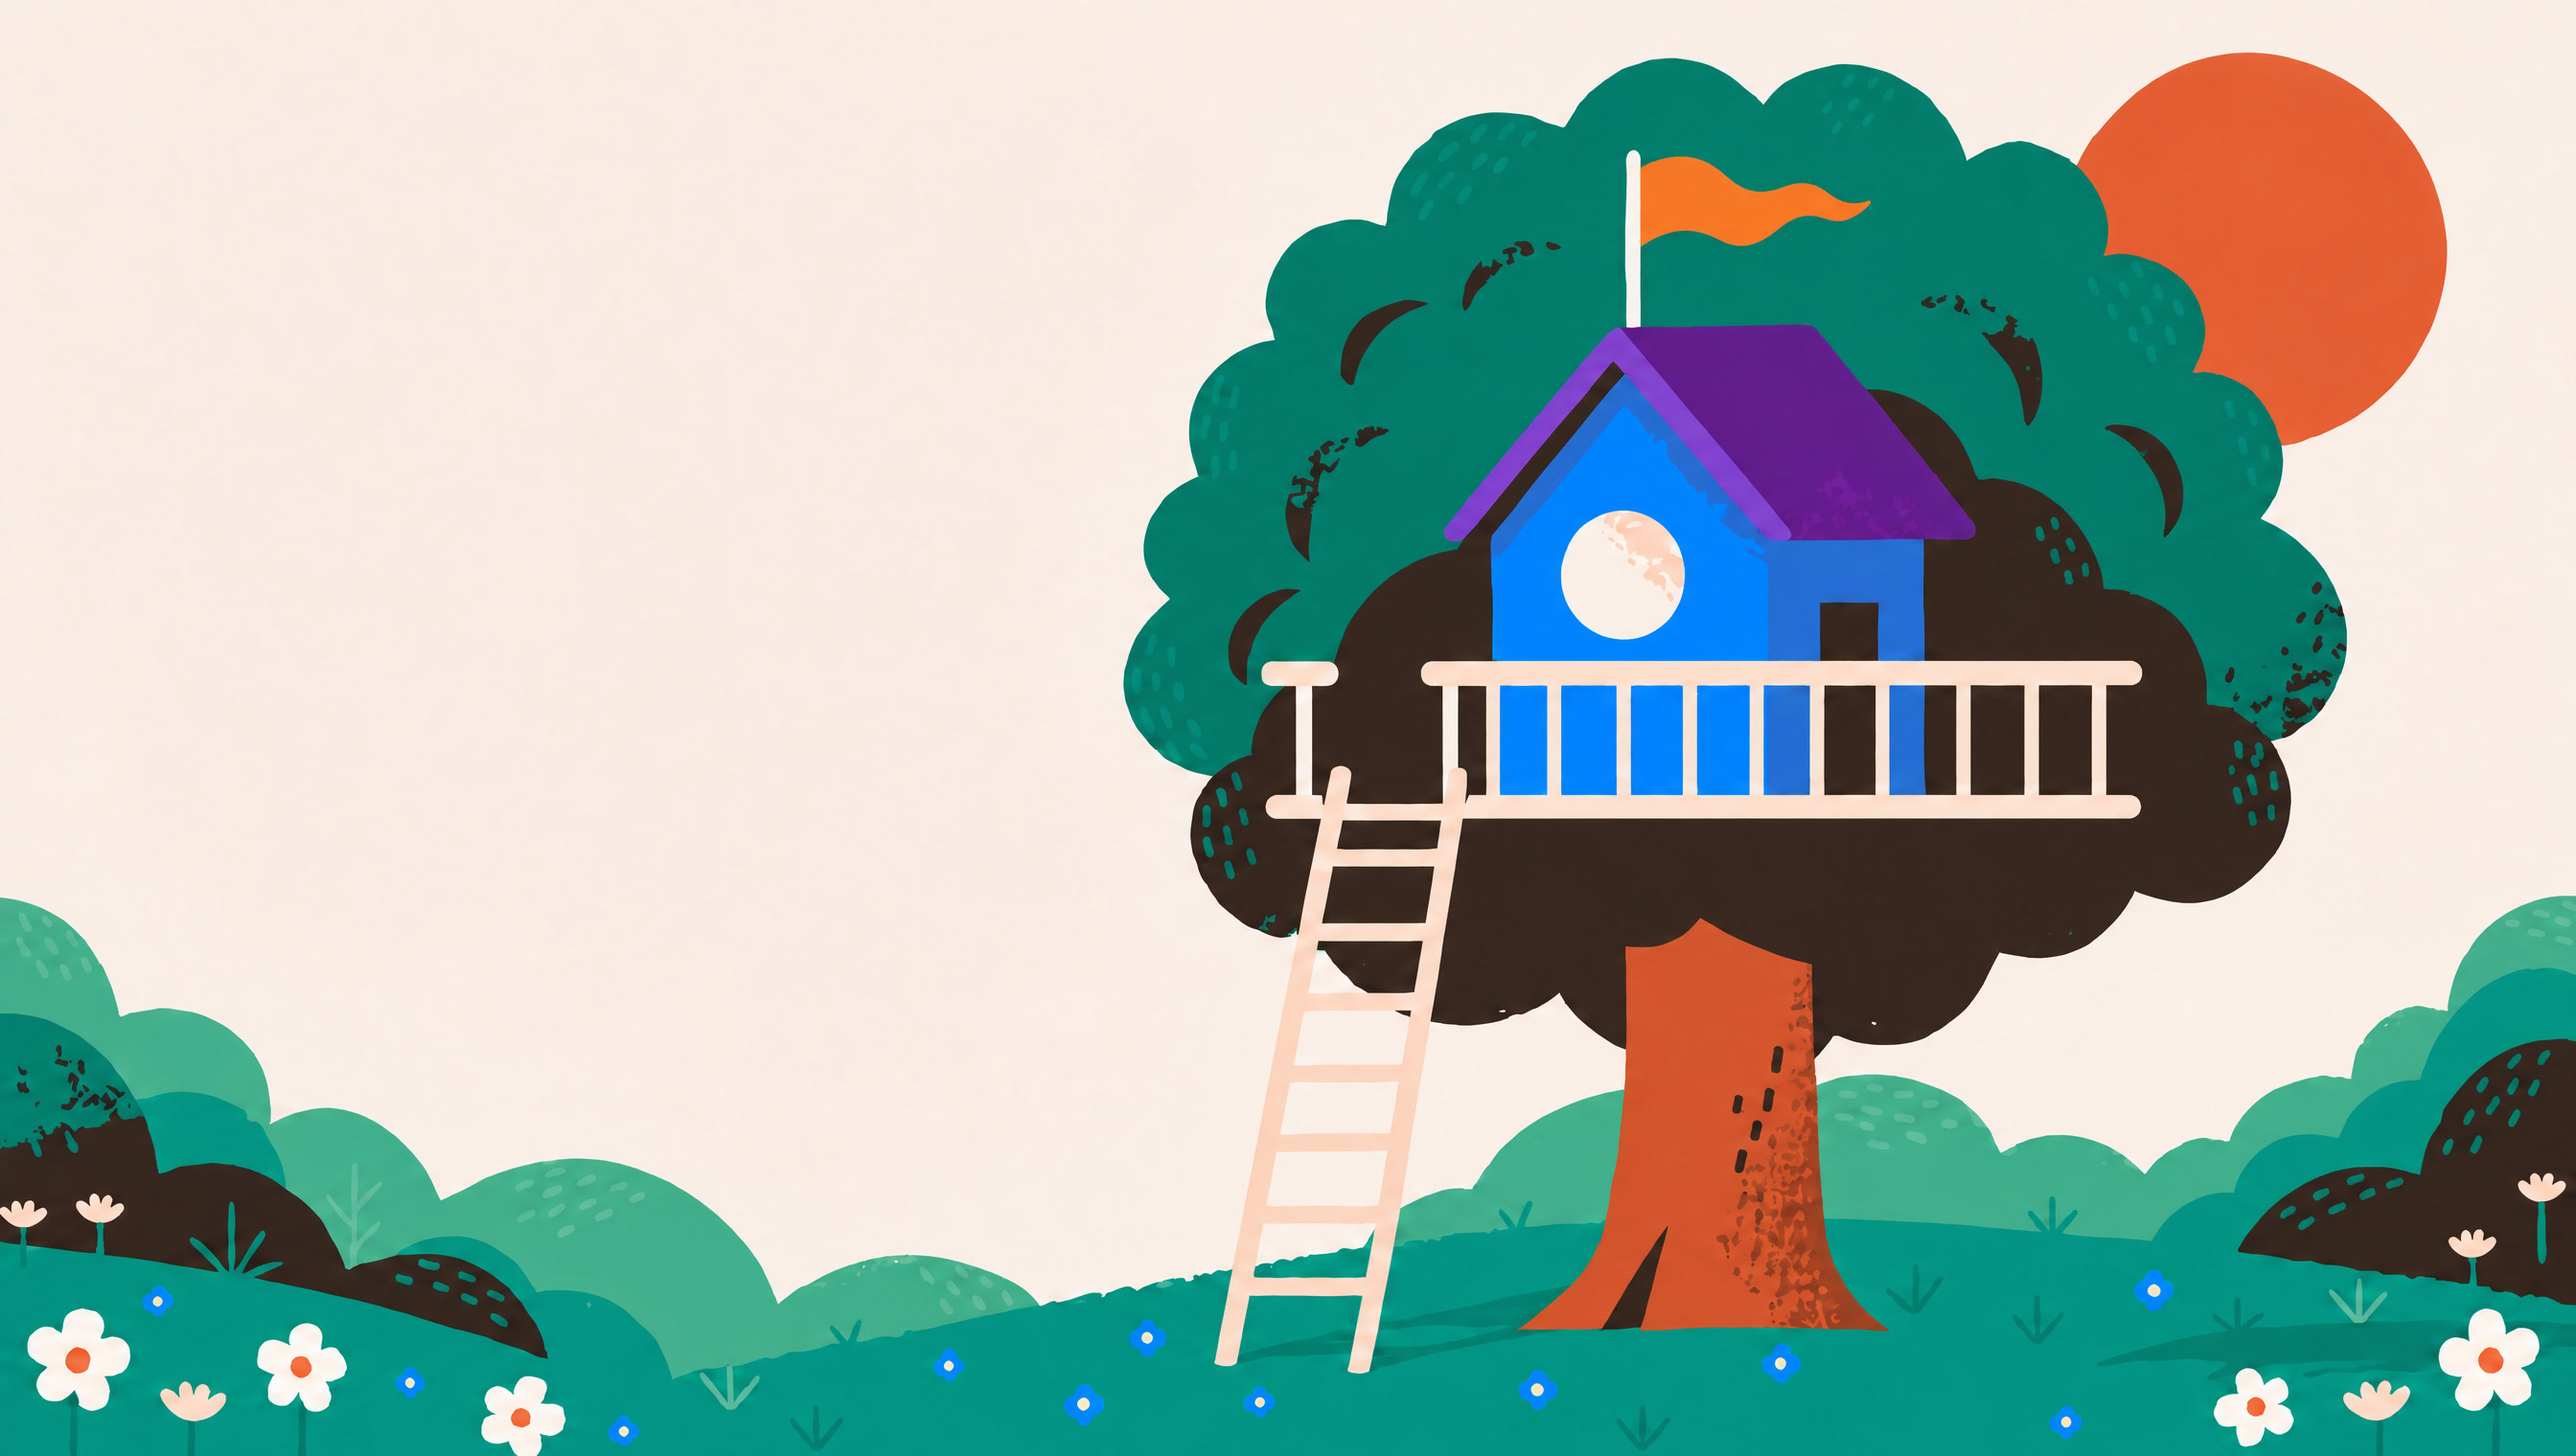
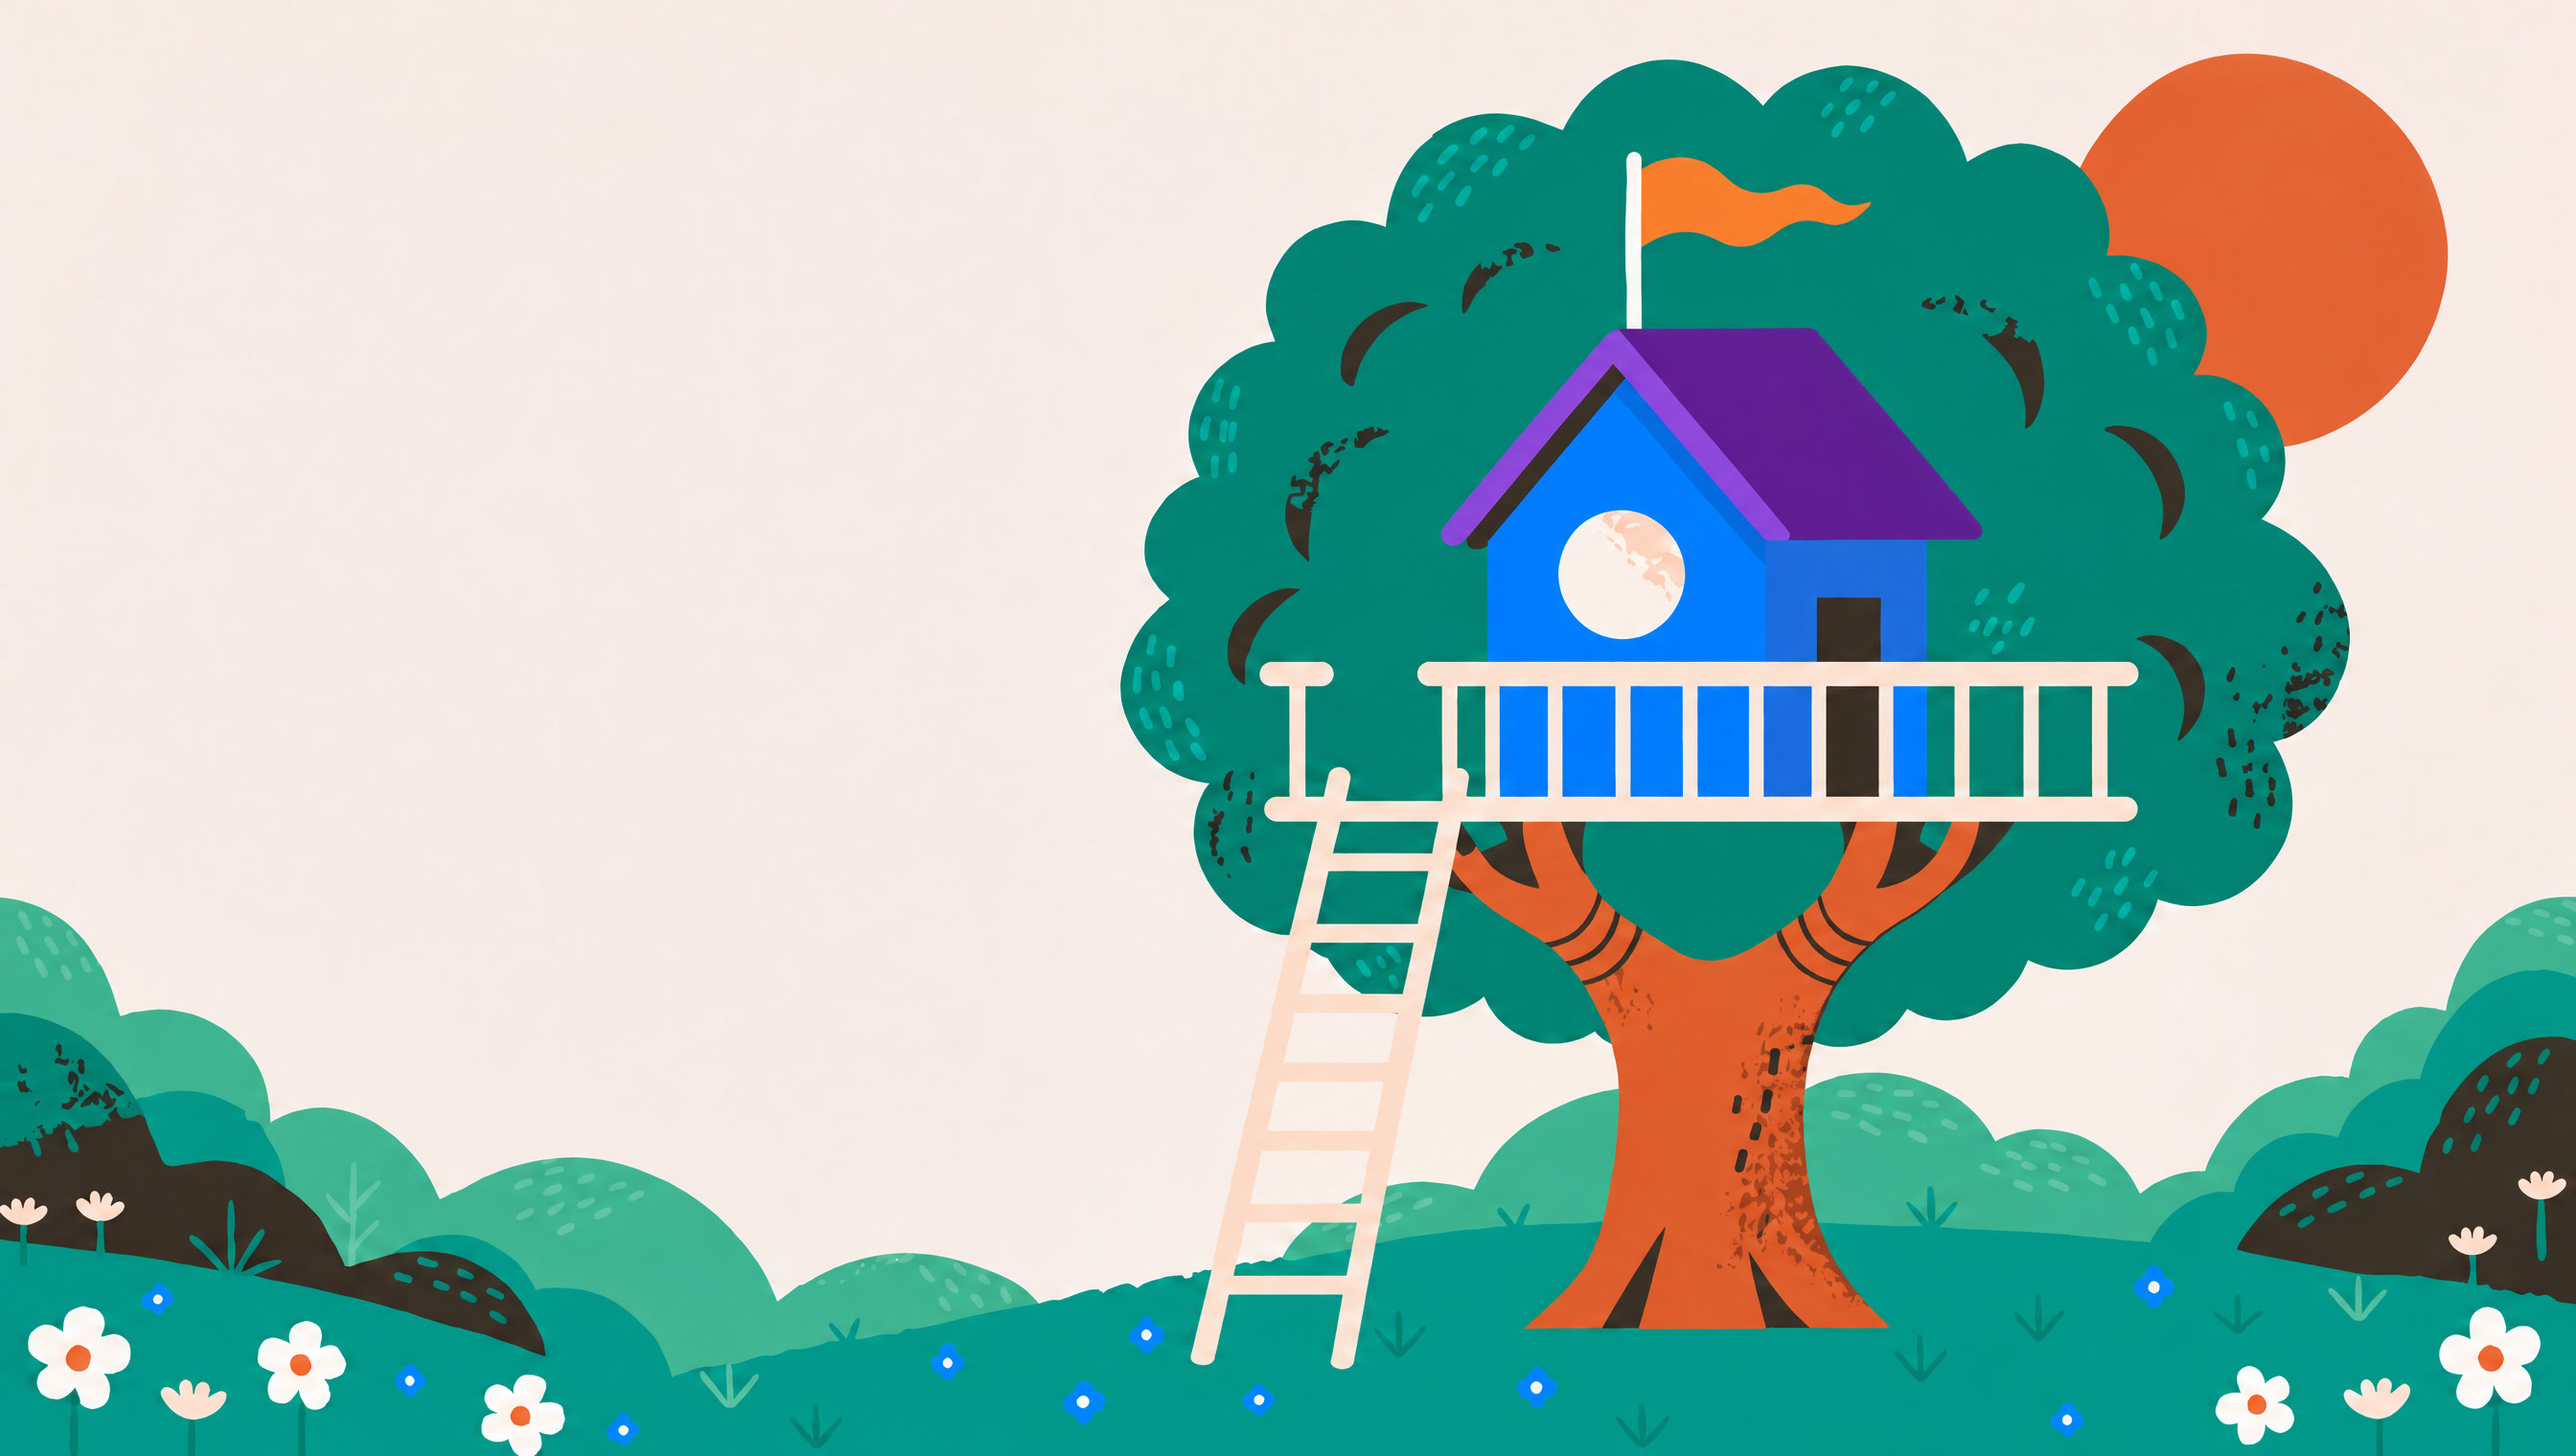
Redesign the intro video's built treehouse so the tree stays the same
The review found that building the house changed the round tree. 07 is
made again from the sketch picture, which kept the tree, and 08 to 10
from it in turn. The pictures before the review are kept as takes.

Claude-Session: https://claude.ai/code/session_01HWRLNP4zRgNHV44X9u2tkQ

diff --git a/docs/video/intro/design.md b/docs/video/intro/design.md
@@ -10,12 +10,14 @@ Stage 4 of [the process](../process.md), 2026-11-14. Approved after the retake o
 | `04-slide-on-ladder.jpg` | 4, 5 | 03, then the maintainer's note: the top of the slide covers the top of the ladder, and the ladder's foot pokes out from behind the slide's base | `11f2280b-889e-426a-8a17-315464f7361c` | `33c409d4-557d-4706-a58e-0153f4323cb6`, `27538294-b01a-4cfd-ad41-c22fdcf8a214`; earlier, `6cc9c2b6-0828-45ae-b0c1-136697f3519c` (the slide across the ladder) and `d01c90c7-9453-4356-8011-5ad28a99d283`, and two that hid the ladder, `4cc4d401-e006-4dc3-9d43-a0a2fa93a182`, `e11de493-78b1-4603-bf13-4c3de0e27f87` |
 | `05-second-box.jpg` | 6 | 04 as revised, a second box | `d4c2b39e-0236-40ea-8e09-8799c2be252b` | `d461b3ba-2fca-4c8e-8844-c4db24ccc7bc`; from the earlier 04, `0c4ce00e-5dbc-4771-865d-c1e678613236`, `61dbb629-6a12-4b53-a385-bd83a0065091` |
 | `06-sketch.jpg` | 8 | 01 and 07 as revised, a pencil sketch of the treehouse | `6ce68f6b-c378-4b8a-b7de-3563ccb3bc91` | `c28892ed-d626-4dbd-a346-9e3b6bcd6af5`; from the earlier 07, `fc269f15-72dc-42b1-8448-dafec19d0f90`, `2c55c42e-7c06-4ab2-b3bd-ad8b5d79ced4` |
-| `07-bare-pole.jpg` | 8 | The master, slide and flag removed (`250694c6-709a-4456-9db3-2451de952700`), then an opening in the railing above the ladder | `87d1c5c9-3145-44c5-a6c7-16014f2917a2` | `7a7c802b-75af-4511-9dd1-7594c8077cf2`; and `b9d3c6c5-9703-41ec-89ef-4a8165b1513d` |
-| `08-flag.jpg` | 9, 10 | 07 as revised, the flag added | `bfd1ec8e-3a7e-49e8-94ca-b28c55affdfd` | `b90d2789-cad8-4111-bc77-726b9e920b30`; from the earlier 07, `ad84a61b-6fd5-42e6-8ddb-2b0290c85879`, `6fbda81d-8a4b-451d-8d72-91858f503faf`; and one edited from the master, whose railing changed colour, `a5fdd6f4-ffae-438b-9459-b7ab37ea8030` |
-| `09-slide.jpg` | 11 | 08 as revised, with the S-curve slide of `289e9528`, its top in an opening in the railing as in the village, and its foot clear of the trunk | `4939ad7a-7090-4070-8789-5670424647d8` | `0115c7b4-38a0-43c1-ade8-aa87ce9fcea3`, `16584585-fa5e-4d18-b517-6e354c39d93d`; with the railing still across the slide's top, `97632c4d-df72-4364-b824-c7e90d737e78`, `9d6f04b7-bdab-46a6-b106-234a794f2143`, `41f225f0-a7d7-4701-935a-76d8b5e797e1`; one whose slide ran into the trunk, `289e9528-8bdc-4569-b683-81dda371bd31`; `eae4ee17-6b98-445b-a418-0df575e8cecc` (railing left across the slide); from the earlier 08, `85d4114f-0da6-4f2c-b98d-c44a888666ba`, `b76746dc-5630-42ac-956b-96a3d3b47eaf` |
-| `10-village.jpg` | 12 | The village (`39c12b84-59e1-4bb5-916b-fc7838046916`) with its centre treehouse replaced by 09 as revised, and the sun kept | `f1d350a0-1a9e-4384-a26c-3297c7060633` | `54b67efa-3db2-43d8-8667-c0f5262217ce`; earlier, `39c12b84-59e1-4bb5-916b-fc7838046916`, `69a1a920-e3e0-4cdd-a792-9f3cdcabc40e` |
+| `07-bare-pole.jpg` | 8, 9 | After the review at stage 9: 06, with the pencil sketch replaced by the finished treehouse of the earlier 07, and the tree kept as it is in 01 and 06 | `1f6a5300-5d2d-43b1-9a45-1a92806ff040` | `a60cfd85-d61b-4749-9ae2-f91a37bcffa5`, `73fe39e7-f9c5-4367-8f2c-3c2a0374ee42` (`takes/design-review/07a.jpg`, `07c.jpg`); before the review, `87d1c5c9-3145-44c5-a6c7-16014f2917a2` (`takes/design-before-review/`), whose canopy was dark brown and whose trunk had lost its branches, and the takes before it, `7a7c802b-75af-4511-9dd1-7594c8077cf2`, `b9d3c6c5-9703-41ec-89ef-4a8165b1513d` |
+| `08-flag.jpg` | 9, 10 | 07 as revised after the review, the flag of the earlier 08 added | `9dc2fef0-a2d1-4e3e-b9e2-b970d628223e` | `5871bafc-f680-4e3e-b6ae-6f9f90f02596` (`takes/design-review/08b.jpg`); before the review, `bfd1ec8e-3a7e-49e8-94ca-b28c55affdfd` (`takes/design-before-review/`), and `b90d2789-cad8-4111-bc77-726b9e920b30`, `ad84a61b-6fd5-42e6-8ddb-2b0290c85879`, `6fbda81d-8a4b-451d-8d72-91858f503faf`, `a5fdd6f4-ffae-438b-9459-b7ab37ea8030` |
+| `09-slide.jpg` | 11 | 08 as revised after the review, the S-curve slide of the earlier 09 added, its top in an opening in the railing | `f13a8ffe-be1b-43b9-b029-36ec96a903a2` | `e0b2989f-722c-4039-a8e9-0d16d740c045` (`takes/design-review/09b.jpg`); before the review, `4939ad7a-7090-4070-8789-5670424647d8` (`takes/design-before-review/`), and the nine takes before it listed in the history below |
+| `10-village.jpg` | 12 | The earlier 10 with its centre treehouse and tree replaced by 09 as revised after the review | `4a8f1465-b578-4438-ae13-adfde86aaa0f` | `a4091838-d37b-478a-904f-5734fb4dbe8b` (`takes/design-review/10b.jpg`, still dark behind the house); before the review, `f1d350a0-1a9e-4384-a26c-3297c7060633` (`takes/design-before-review/`), `54b67efa-3db2-43d8-8667-c0f5262217ce`, `39c12b84-59e1-4bb5-916b-fc7838046916`, `69a1a920-e3e0-4cdd-a792-9f3cdcabc40e` |
 
 The maintainer's note on 04 (2026-11-14): "it works best if the top of the slide completely obscures the top of ladder ... but the ladder pokes out from behind the base". 04 and 05 were retaken to it. After the animatic, the maintainer's note: "in the post-turn treehouse, the railing blocks both the top of the ladder and the top of the slide." 07 was retaken with an opening above the ladder, then 08, 09 (with an opening at the slide's top), and 06 were made again from it; and the animatic's review found the village's centre treehouse different from 09 and its sun gone, so 10 was rebuilt from 09. Then the maintainer's note: "the base of the slide merges with the tree trunk at the base when it's added. It's correct in the village picture." 09 was retaken from 08 with the village as the reference for the slide. Then: "slide c was my favourite" and "when the slide appears the top of the railing is still blocked. on the village image it looks perfect." 09 was retaken once more with slide-c's curve and the village's opening. The maintainer, on the result: "It doesn't need to land clear of the trunk. the trunk just shouldn't show through it. The slide in the village as it currently is, is 👌 ... those are all fine." This stage cost 115.5 credits (42 takes); 266 have been spent on the film.
+
+After the review at stage 9 (2026-11-15), which found that building the house changed the round tree (its branches gone, a dark mass in the canopy) in the half of the film that says nothing else moves, the maintainer: "lets fix the beat 8 issue. I agree that the tree change seems unmotivated". 07 was made again from 06, which still had the tree of 01, and 08, 09, and 10 from it in turn; each new picture differs from the one before only by the thing added. Nine takes, 24.75 credits.
 
 What the code adds, not the pictures: the grey of beats 2 to 6 with the slide kept in colour, the bubbles and headings, the new-session divider, the turn, the decisions card, and the end card.
 
